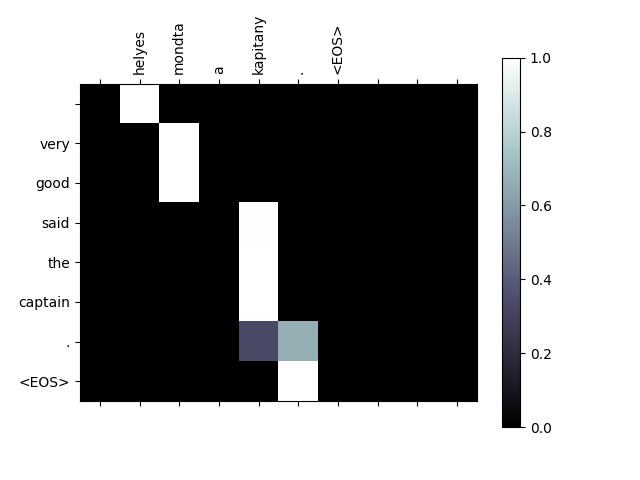
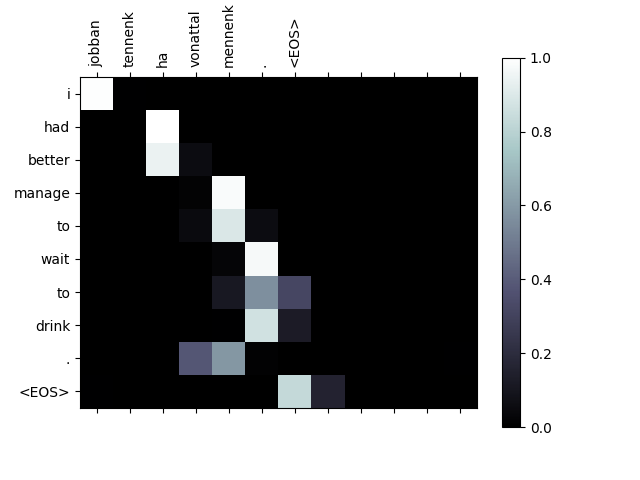
sentence length increased and lr decreased

diff --git a/main.py b/main.py
@@ -8,6 +8,7 @@ from torch import optim, nn
 import matplotlib.pyplot as plt
 plt.switch_backend('agg')
 from nltk.translate.bleu_score import sentence_bleu
+from sklearn.model_selection import train_test_split
 
 import DecoderRNN
 import EncoderRNN
@@ -23,7 +24,7 @@ EOS_token = 1
 teacher_forcing_ratio = 0.5
 
 def filterPair(p):
-    return len(p[0].split(' ')) < 10 and len(p[1].split(' ')) < 10
+    return len(p[0].split(' ')) < 12 and len(p[1].split(' ')) < 12
 
 def filterPairs(pairs):
     return [pair for pair in pairs if filterPair(pair)]
@@ -42,7 +43,7 @@ def prepareData(lang1, lang2, reverse=False):
             if len(sentence.split(' ')) > max_len:
                 max_len = len(sentence.split(' '))
 
-    print("The longest sentence in the corpus has", max_len, "words")
+    print("The longest sentence in the teaching corpus has", max_len, "words")
     print("Counted words:")
     print(input_lang.name, input_lang.n_words)
     print(output_lang.name, output_lang.n_words)
@@ -69,12 +70,11 @@ def train(input_tensor, target_tensor, encoder, decoder, encoder_optimizer, deco
     input_length = input_tensor.size(0)
     target_length = target_tensor.size(0)
 
-    encoder_outputs = torch.zeros(10, encoder.hidden_size, device="cuda")
+    encoder_outputs = torch.zeros(12, encoder.hidden_size, device="cuda")
     loss = 0
 
     for ei in range(input_length):
-        encoder_output, encoder_hidden = encoder(
-            input_tensor[ei], encoder_hidden)
+        encoder_output, encoder_hidden = encoder(input_tensor[ei], encoder_hidden)
         encoder_outputs[ei] = encoder_output[0, 0]
 
     decoder_input = torch.tensor([[SOS_token]], device="cuda")
@@ -85,14 +85,12 @@ def train(input_tensor, target_tensor, encoder, decoder, encoder_optimizer, deco
 
     if use_teacher_forcing:
         for di in range(target_length):
-            decoder_output, decoder_hidden, decoder_attention = decoder(
-                decoder_input, decoder_hidden, encoder_outputs)
+            decoder_output, decoder_hidden, decoder_attention = decoder(decoder_input, decoder_hidden, encoder_outputs)
             loss += criterion(decoder_output, target_tensor[di])
             decoder_input = target_tensor[di]
     else:
         for di in range(target_length):
-            decoder_output, decoder_hidden, decoder_attention = decoder(
-                decoder_input, decoder_hidden, encoder_outputs)
+            decoder_output, decoder_hidden, decoder_attention = decoder(decoder_input, decoder_hidden, encoder_outputs)
             topv, topi = decoder_output.topk(1)
             decoder_input = topi.squeeze().detach()
 
@@ -120,14 +118,13 @@ def timeSince(since, percent):
     rs = es - s
     return '%s (- %s)' % (asMinutes(s), asMinutes(rs))
 
-def trainIters(encoder, decoder, epochs, print_every=1000, plot_every=100, learning_rate=0.01):
+def trainIters(encoder, decoder, epochs, print_every=1000, plot_every=1000, learning_rate=0.001):
 
     plot_losses = []
 
-
     encoder_optimizer = optim.SGD(encoder.parameters(), lr=learning_rate)
     decoder_optimizer = optim.SGD(decoder.parameters(), lr=learning_rate)
-    training_pairs = [tensorFromPair(pair) for pair in pairs]
+    training_pairs = [tensorFromPair(pair) for pair in train_pairs]
     criterion = nn.NLLLoss()
 
     for epoch in range(1, epochs + 1):
@@ -174,7 +171,7 @@ def evaluate(encoder, decoder, sentence):
         input_length = input_tensor.size()[0]
         encoder_hidden = encoder.initHidden()
 
-        encoder_outputs = torch.zeros(10, encoder.hidden_size, device="cuda")
+        encoder_outputs = torch.zeros(12, encoder.hidden_size, device="cuda")
 
         for ei in range(input_length):
             encoder_output, encoder_hidden = encoder(input_tensor[ei], encoder_hidden)
@@ -185,11 +182,10 @@ def evaluate(encoder, decoder, sentence):
         decoder_hidden = encoder_hidden
 
         decoded_words = []
-        decoder_attentions = torch.zeros(10, 10)
+        decoder_attentions = torch.zeros(12, 12)
 
-        for di in range(10):
-            decoder_output, decoder_hidden, decoder_attention = decoder(
-                decoder_input, decoder_hidden, encoder_outputs)
+        for di in range(12):
+            decoder_output, decoder_hidden, decoder_attention = decoder(decoder_input, decoder_hidden, encoder_outputs)
             decoder_attentions[di] = decoder_attention.data
             topv, topi = decoder_output.data.topk(1)
             if topi.item() == EOS_token:
@@ -203,22 +199,35 @@ def evaluate(encoder, decoder, sentence):
         return decoded_words, decoder_attentions[:di + 1]
 
 
-def calculate_bleu_score(encoder, decoder):
+def calculate_bleu_score_test(encoder, decoder):
     sum = 0
-    for i in range(len(pairs)):
-        pair = pairs[i]
+    for i in range(len(test_pairs)):
+        pair = test_pairs[i]
         candidate_words, attentions = evaluate(encoder, decoder, pair[0])
-        candidate =  ' '.join(candidate_words)
+        candidate = ' '.join(candidate_words)
         reference = [pair[1]]
         BLEU_score = sentence_bleu(reference, candidate)
         sum += BLEU_score
 
     avg_BLEU = sum / len(pairs)
-    print("BLEU score -> {}".format(avg_BLEU))
+    print("BLEU test score -> {}".format(avg_BLEU))
 
-def evaluateRandomly(encoder, decoder, n=10):
+def calculate_bleu_score_train(encoder, decoder):
+    sum = 0
+    for i in range(len(train_pairs)):
+        pair = train_pairs[i]
+        candidate_words, attentions = evaluate(encoder, decoder, pair[0])
+        candidate = ' '.join(candidate_words)
+        reference = [pair[1]]
+        BLEU_score = sentence_bleu(reference, candidate)
+        sum += BLEU_score
+
+    avg_BLEU = sum / len(pairs)
+    print("BLEU train score -> {}".format(avg_BLEU))
+
+def evaluateRandomly(encoder, decoder, n=20):
     for i in range(n):
-        pair = random.choice(pairs)
+        pair = random.choice(test_pairs)
         print('>', pair[0])
         print('=', pair[1])
         output_words, attentions = evaluate(encoder, decoder, pair[0])
@@ -256,8 +265,10 @@ if __name__ == '__main__':
 
     input_lang, output_lang, pairs = prepareData('eng', 'hun', True)
 
+    train_pairs, test_pairs = train_test_split(pairs, test_size=0.2, train_size=0.8, random_state=0)
+
     train_mode = True
-    hidden_size = 256
+    hidden_size = 1024
 
     input = input("Train or load models?:")
 
@@ -272,12 +283,18 @@ if __name__ == '__main__':
         encoder1 = EncoderRNN.EncoderRNN(input_lang.n_words, hidden_size).to("cuda")
         attn_decoder1 = DecoderRNN.AttnDecoderRNN(hidden_size, output_lang.n_words, dropout_p=0.1).to("cuda")
 
-        epochs = 15
+        epochs = 30
 
-        trainIters(encoder1, attn_decoder1, epochs, print_every=10000, plot_every=1000)
+        trainIters(encoder1, attn_decoder1, epochs, print_every=10000)
         evaluateRandomly(encoder1, attn_decoder1)
         torch.save(encoder1.state_dict(), "model/encoder.pt")
         torch.save(attn_decoder1.state_dict(), "model/decoder.pt")
+        evaluateAndShowAttention(random.choice(test_pairs)[0], encoder1, attn_decoder1, "attention1")
+        evaluateAndShowAttention(random.choice(test_pairs)[0], encoder1, attn_decoder1, "attention2")
+        evaluateAndShowAttention(random.choice(test_pairs)[0], encoder1, attn_decoder1, "attention3")
+        evaluateAndShowAttention(random.choice(test_pairs)[0], encoder1, attn_decoder1, "attention4")
+        calculate_bleu_score_train(encoder1, attn_decoder1)
+        calculate_bleu_score_test(encoder1, attn_decoder1)
 
     else:
         encoder = EncoderRNN.EncoderRNN(input_lang.n_words, hidden_size).to("cuda")
@@ -287,8 +304,9 @@ if __name__ == '__main__':
         encoder.eval()
         attn_decoder.eval()
         evaluateRandomly(encoder, attn_decoder)
-        evaluateAndShowAttention(random.choice(pairs)[0], encoder, attn_decoder, "attention1")
-        evaluateAndShowAttention(random.choice(pairs)[0], encoder, attn_decoder, "attention2")
-        evaluateAndShowAttention(random.choice(pairs)[0], encoder, attn_decoder, "attention3")
-        evaluateAndShowAttention(random.choice(pairs)[0], encoder, attn_decoder, "attention4")
-        calculate_bleu_score(encoder, attn_decoder)
+        evaluateAndShowAttention(random.choice(test_pairs)[0], encoder, attn_decoder, "attention1")
+        evaluateAndShowAttention(random.choice(test_pairs)[0], encoder, attn_decoder, "attention2")
+        evaluateAndShowAttention(random.choice(test_pairs)[0], encoder, attn_decoder, "attention3")
+        evaluateAndShowAttention(random.choice(test_pairs)[0], encoder, attn_decoder, "attention4")
+        calculate_bleu_score_train(encoder, attn_decoder)
+        calculate_bleu_score_test(encoder, attn_decoder)

diff --git a/DecoderRNN.py b/DecoderRNN.py
@@ -11,7 +11,7 @@ class AttnDecoderRNN(nn.Module):
         self.dropout_p = dropout_p
 
         self.embedding = nn.Embedding(self.output_size, self.hidden_size)
-        self.attn = nn.Linear(self.hidden_size * 2, 10)
+        self.attn = nn.Linear(self.hidden_size * 2, 12)
         self.attn_combine = nn.Linear(self.hidden_size * 2, self.hidden_size)
         self.dropout = nn.Dropout(self.dropout_p)
         self.gru = nn.GRU(self.hidden_size, self.hidden_size)

diff --git a/FileReading.py b/FileReading.py
@@ -68,10 +68,10 @@ def readLangs(lang1, lang2, reverse=False):
     print("English length frequencies:", frequency)
 
     freq = []
-    for x in list(frequency)[10:]:
+    for x in list(frequency)[12:]:
         freq.append(frequency[x])
 
-    print("Sentences with more than 10 words:", sum(freq))
+    print("Sentences with more than 12 words:", sum(freq))
 
     if reverse:
         pairs = [list(reversed(p)) for p in pairs]
